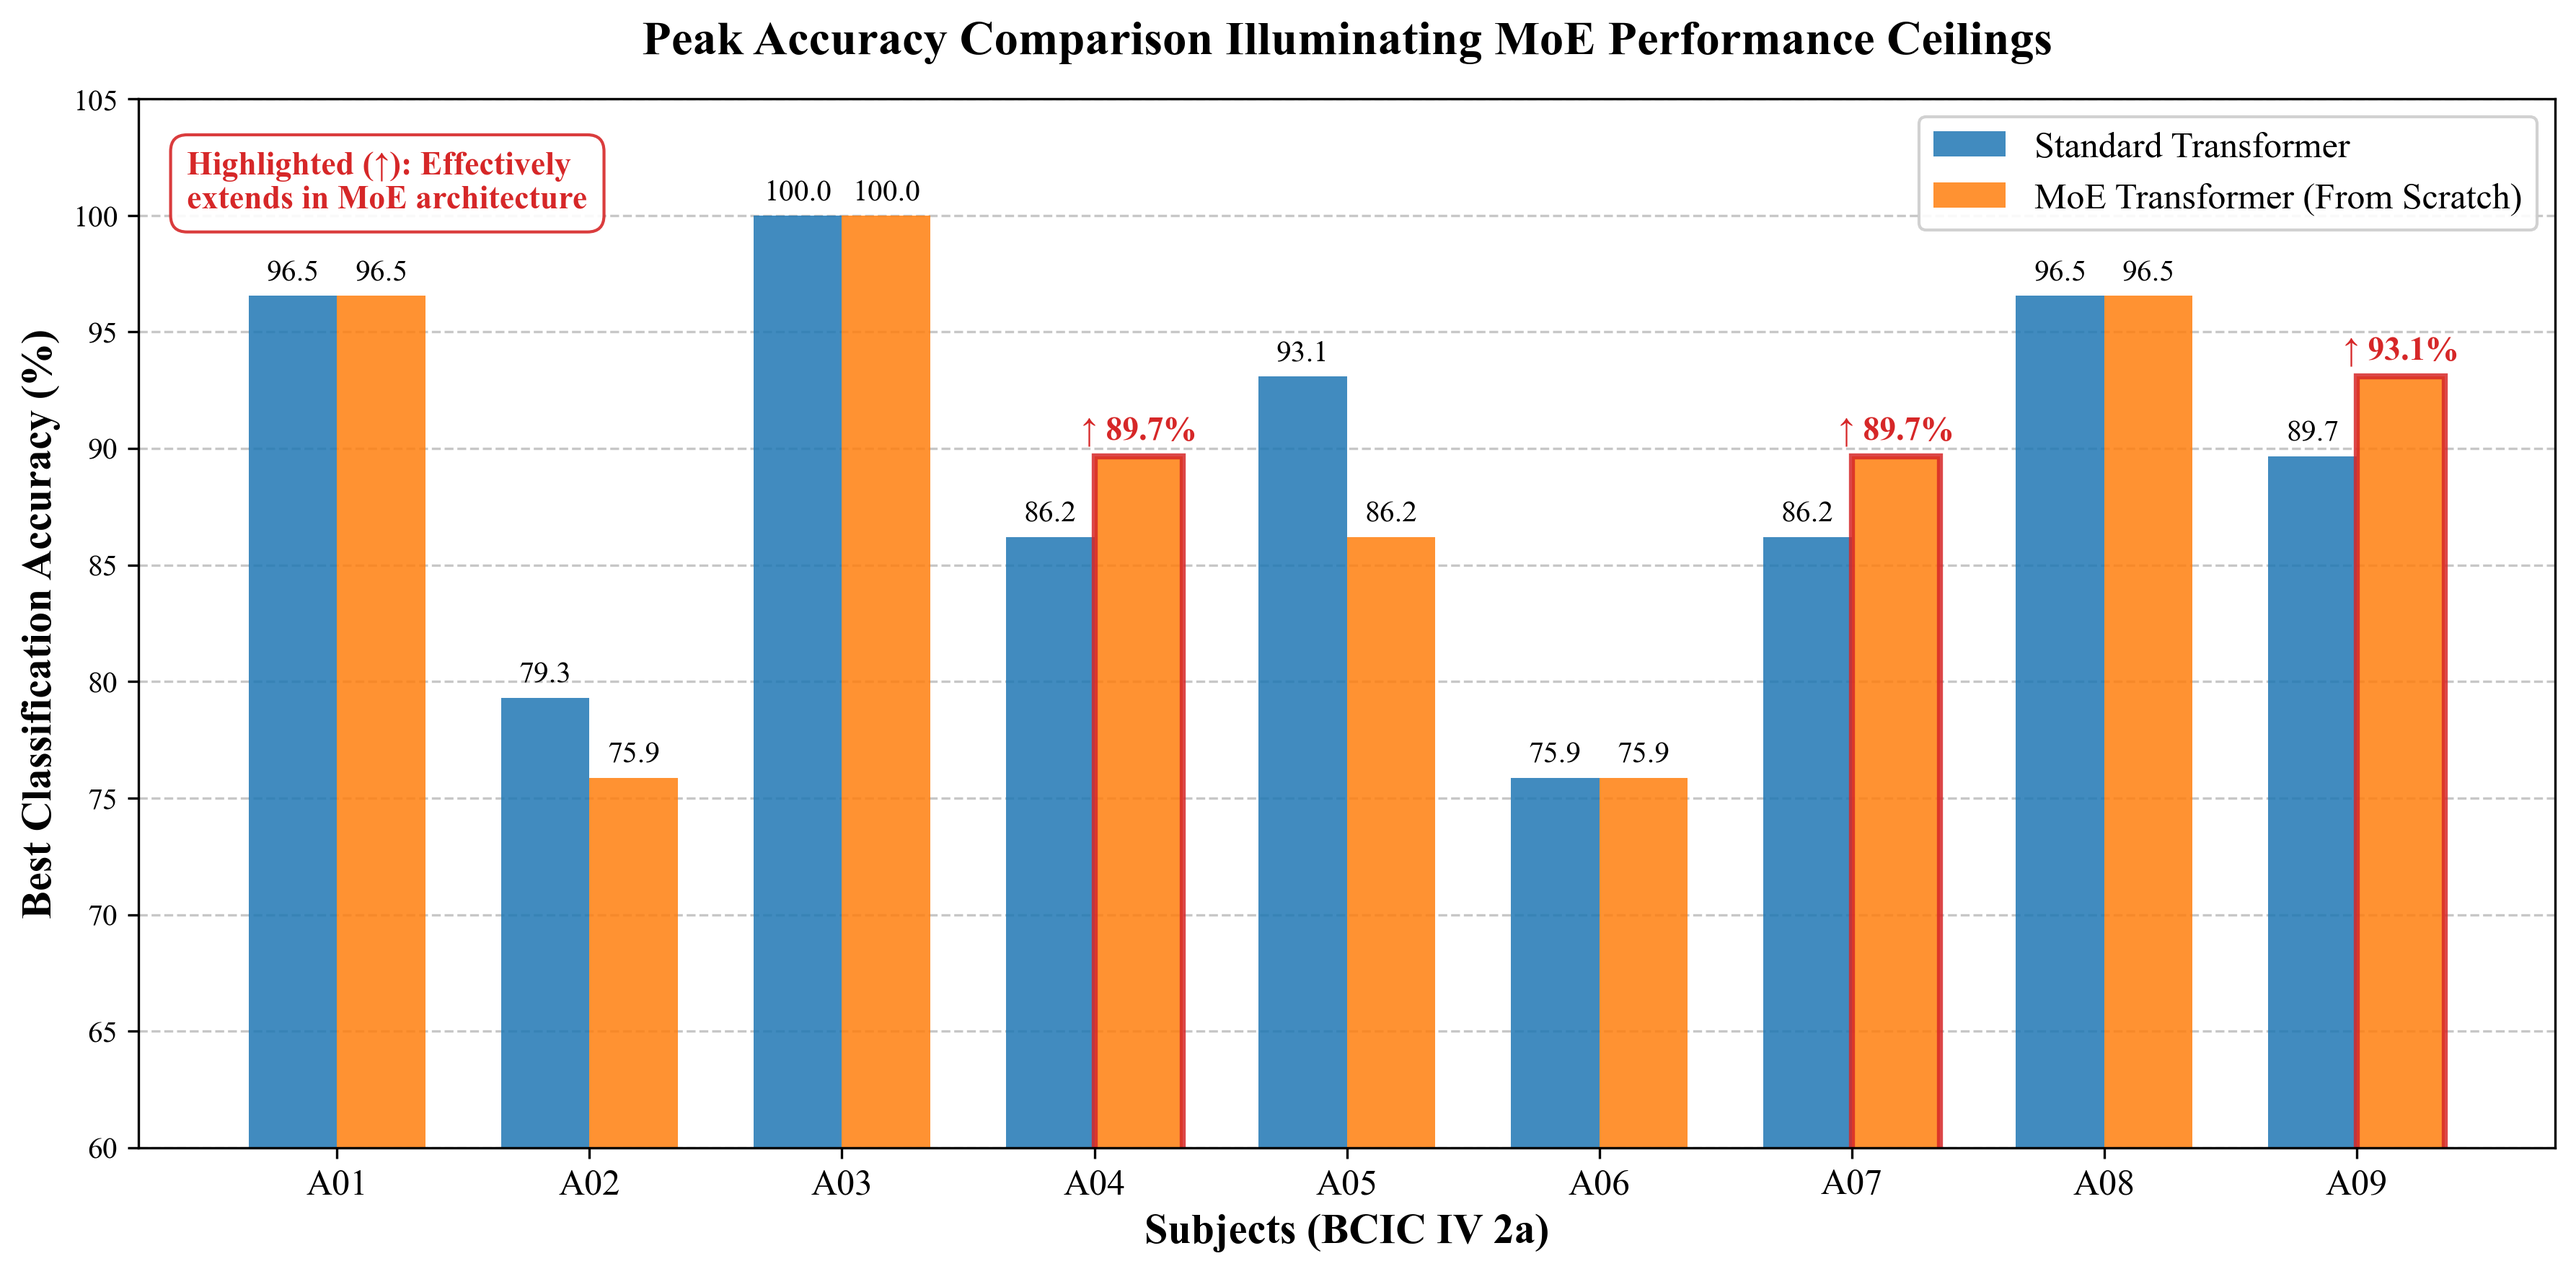
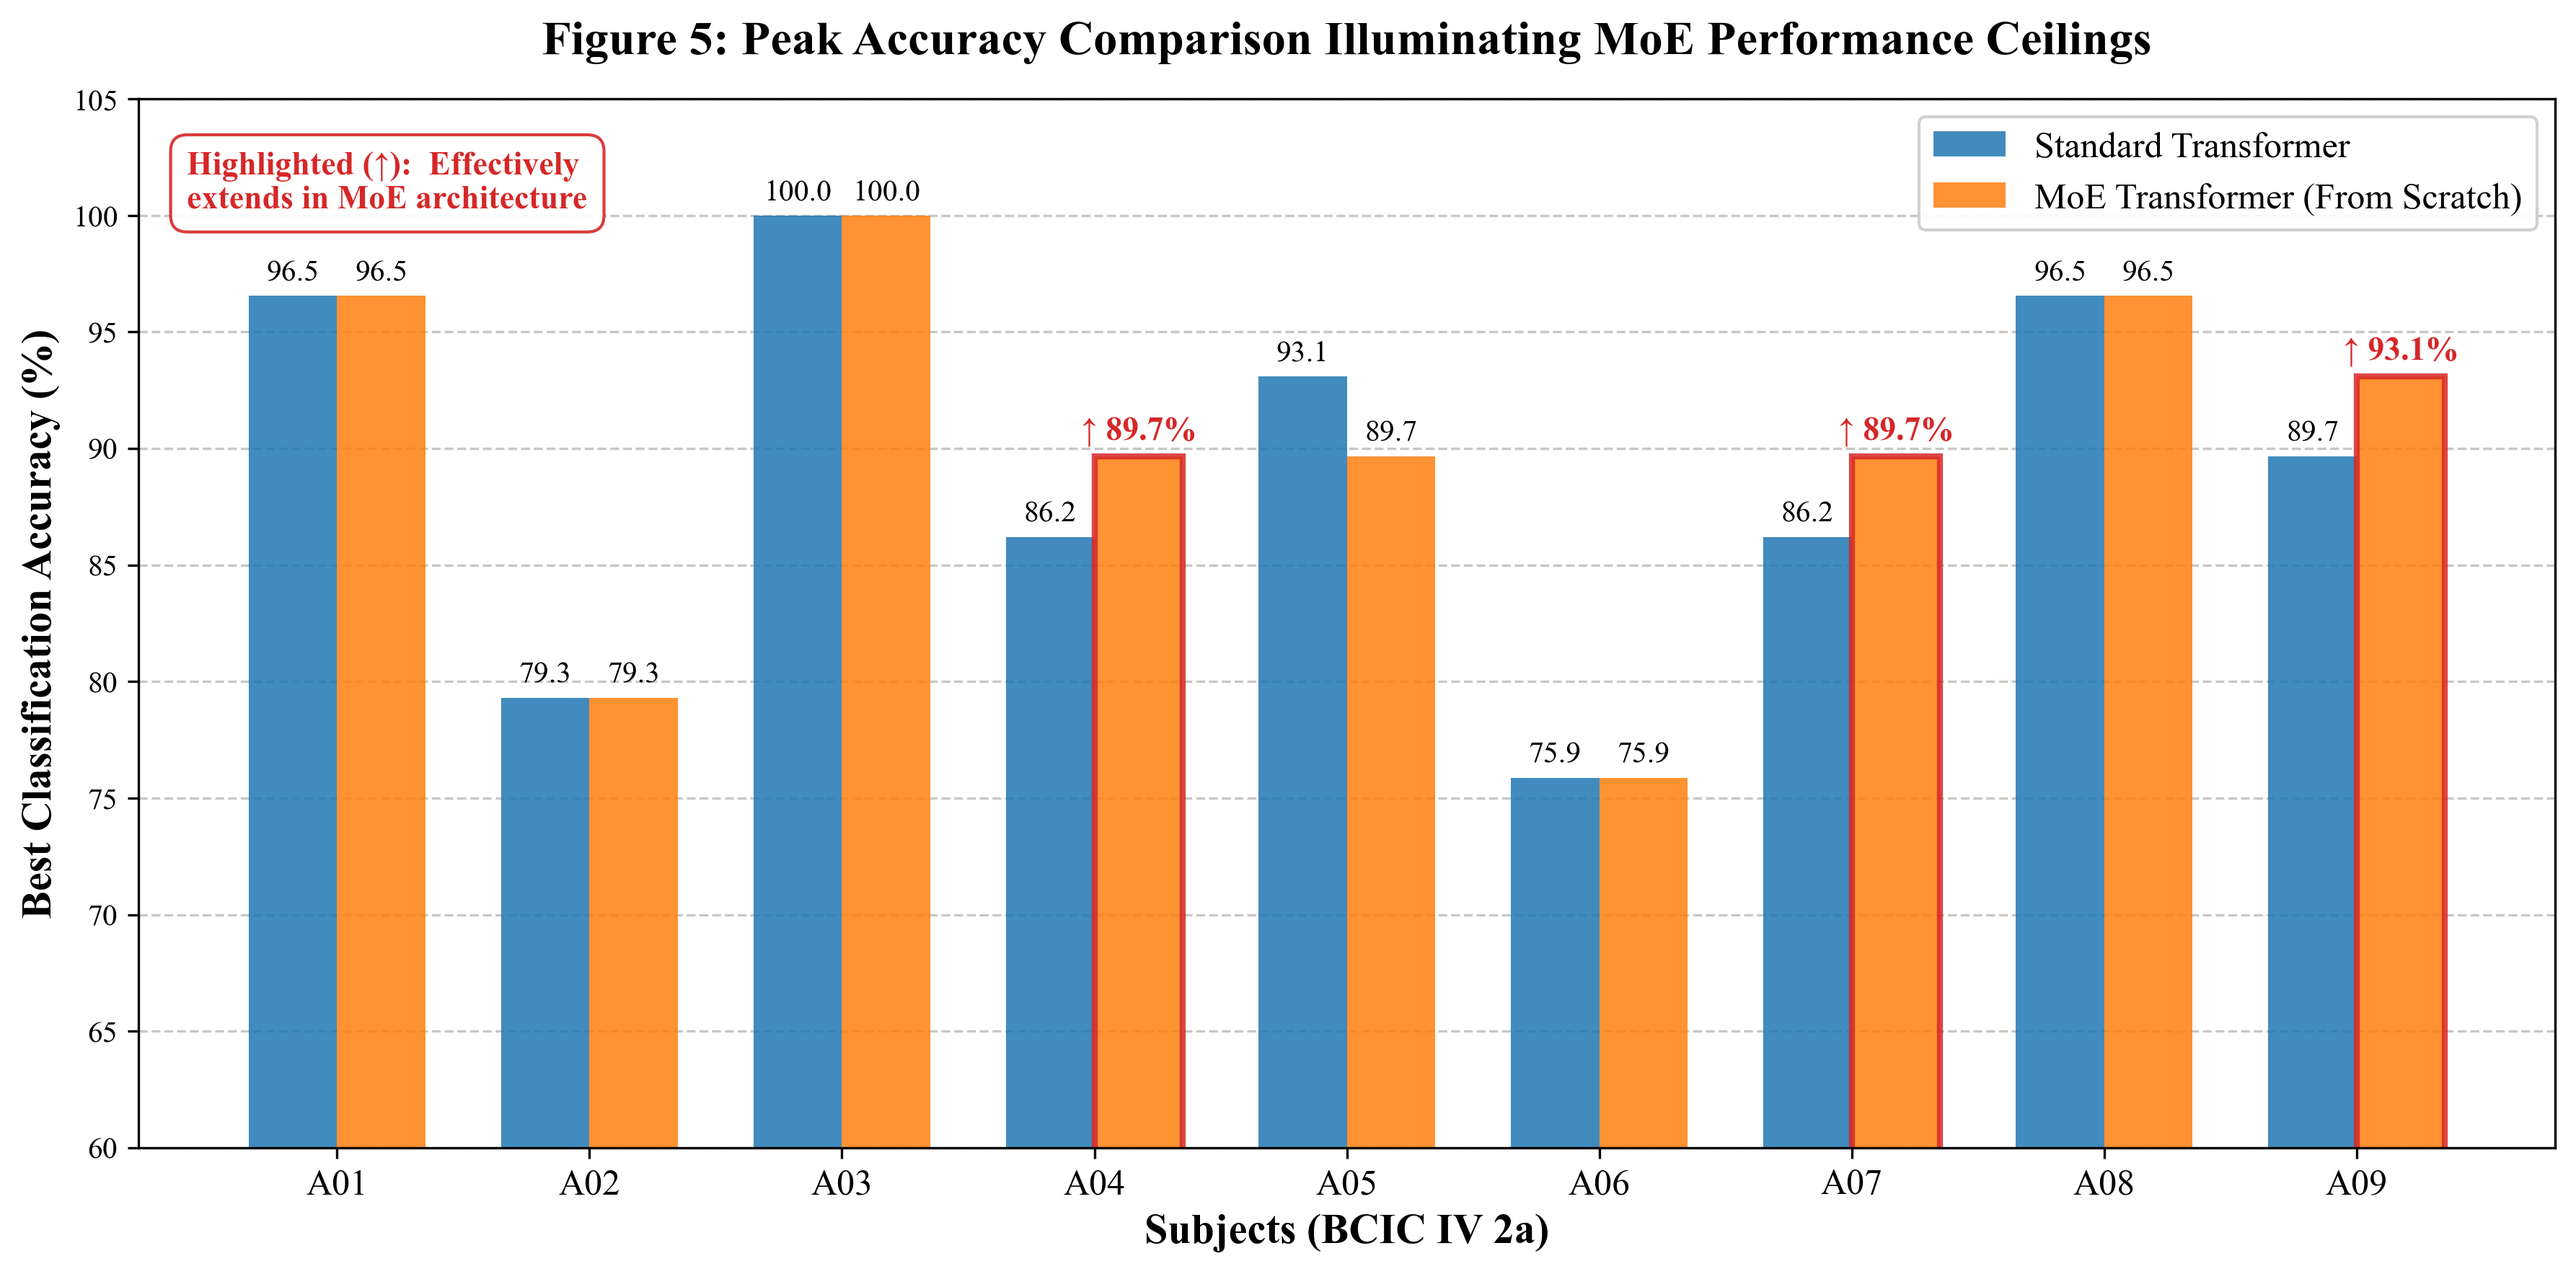
final code

diff --git a/plot_figure_5_bar_chart.py b/plot_figure_5_bar_chart.py
@@ -1,0 +1,92 @@
+import numpy as np
+import matplotlib.pyplot as plt
+
+def plot_figure_5():
+    # 统一使用学术规范字体
+    plt.rcParams['font.family'] = 'Times New Roman'
+    
+    # 提取您的数据 (保留两位小数用于展示)
+    subjects = ['A01', 'A02', 'A03', 'A04', 'A05', 'A06', 'A07', 'A08', 'A09']
+    
+    # Standard Transformer Best Acc (%)
+    std_acc = [96.55, 79.31, 100.00, 86.21, 93.10, 75.86, 86.21, 96.55, 89.66]
+    
+    # MoE (No Transfer / From Scratch) Best Acc (%)
+    moe_acc = [96.55, 79.31, 100.00, 89.66, 89.66, 75.86, 89.66, 96.55, 93.10]
+    
+    # 设置柱状图的宽度和位置
+    x = np.arange(len(subjects))
+    width = 0.35
+    
+    fig, ax = plt.subplots(figsize=(12, 6))
+    
+    # 绘制分组柱状图
+    # 蓝色代表标准 Transformer (Baseline)，橙色代表您的创新架构 MoE
+    rects1 = ax.bar(x - width/2, std_acc, width, label='Standard Transformer', color='#1f77b4', alpha=0.85)
+    rects2 = ax.bar(x + width/2, moe_acc, width, label='MoE Transformer (From Scratch)', color='#ff7f0e', alpha=0.85)
+    
+    # 添加数值标签的函数
+    def autolabel(rects, is_moe=False):
+        for i, rect in enumerate(rects):
+            height = rect.get_height()
+            
+            # 标记需要特别高亮的受试者 (A04: index 3, A07: index 6, A09: index 8)
+            highlight_idx = [3, 6, 8]
+            
+            # 如果是 MoE 且在这个三个受试者上，使用红色粗体显示数值并加上向上箭头
+            if is_moe and i in highlight_idx and moe_acc[i] > std_acc[i]:
+                ax.annotate(f'↑ {height:.1f}%',
+                            xy=(rect.get_x() + rect.get_width() / 2, height),
+                            xytext=(0, 3),  # 3 points vertical offset
+                            textcoords="offset points",
+                            ha='center', va='bottom', fontsize=11, color='#d62728', fontweight='bold')
+                
+                # 给柱子加上醒目的红色边框
+                rect.set_edgecolor('#d62728')
+                rect.set_linewidth(2)
+            else:
+                ax.annotate(f'{height:.1f}',
+                            xy=(rect.get_x() + rect.get_width() / 2, height),
+                            xytext=(0, 3), 
+                            textcoords="offset points",
+                            ha='center', va='bottom', fontsize=10, color='black')
+
+    # 调用标签函数
+    autolabel(rects1, is_moe=False)
+    autolabel(rects2, is_moe=True)
+    
+    # 调整图表细节
+    ax.set_ylabel('Best Classification Accuracy (%)', fontsize=14, fontweight='bold')
+    ax.set_xlabel('Subjects (BCIC IV 2a)', fontsize=14, fontweight='bold')
+    ax.set_title('Figure 5: Peak Accuracy Comparison Illuminating MoE Performance Ceilings', 
+                 fontsize=16, fontweight='bold', pad=15)
+    ax.set_xticks(x)
+    ax.set_xticklabels(subjects, fontsize=12)
+    
+    # 设置 y 轴范围，留出顶部空间给数值标签
+    ax.set_ylim(60, 105)
+    
+    # 添加网格线以增强可读性
+    ax.yaxis.grid(True, linestyle='--', alpha=0.7)
+    ax.set_axisbelow(True)
+    
+    # 调整图例
+    ax.legend(loc='upper right', fontsize=12, framealpha=0.9)
+    
+    # 增加辅助说明文本框，解释红色箭头的意义
+    props = dict(boxstyle='round,pad=0.5', facecolor='white', edgecolor='#d62728', alpha=0.9)
+    ax.text(0.02, 0.95, 'Highlighted (↑):  Effectively\nextends in MoE architecture', 
+            transform=ax.transAxes, fontsize=11, color='#d62728', fontweight='bold',
+            verticalalignment='top', bbox=props)
+    
+    plt.tight_layout()
+    
+    # 保存图片
+    save_path = 'Figure_5_MoE_Peak_Accuracy.png'
+    plt.savefig(save_path, dpi=300, bbox_inches='tight')
+    print(f"图表已生成并保存至：{save_path}")
+    
+    plt.show()
+
+if __name__ == "__main__":
+    plot_figure_5()
